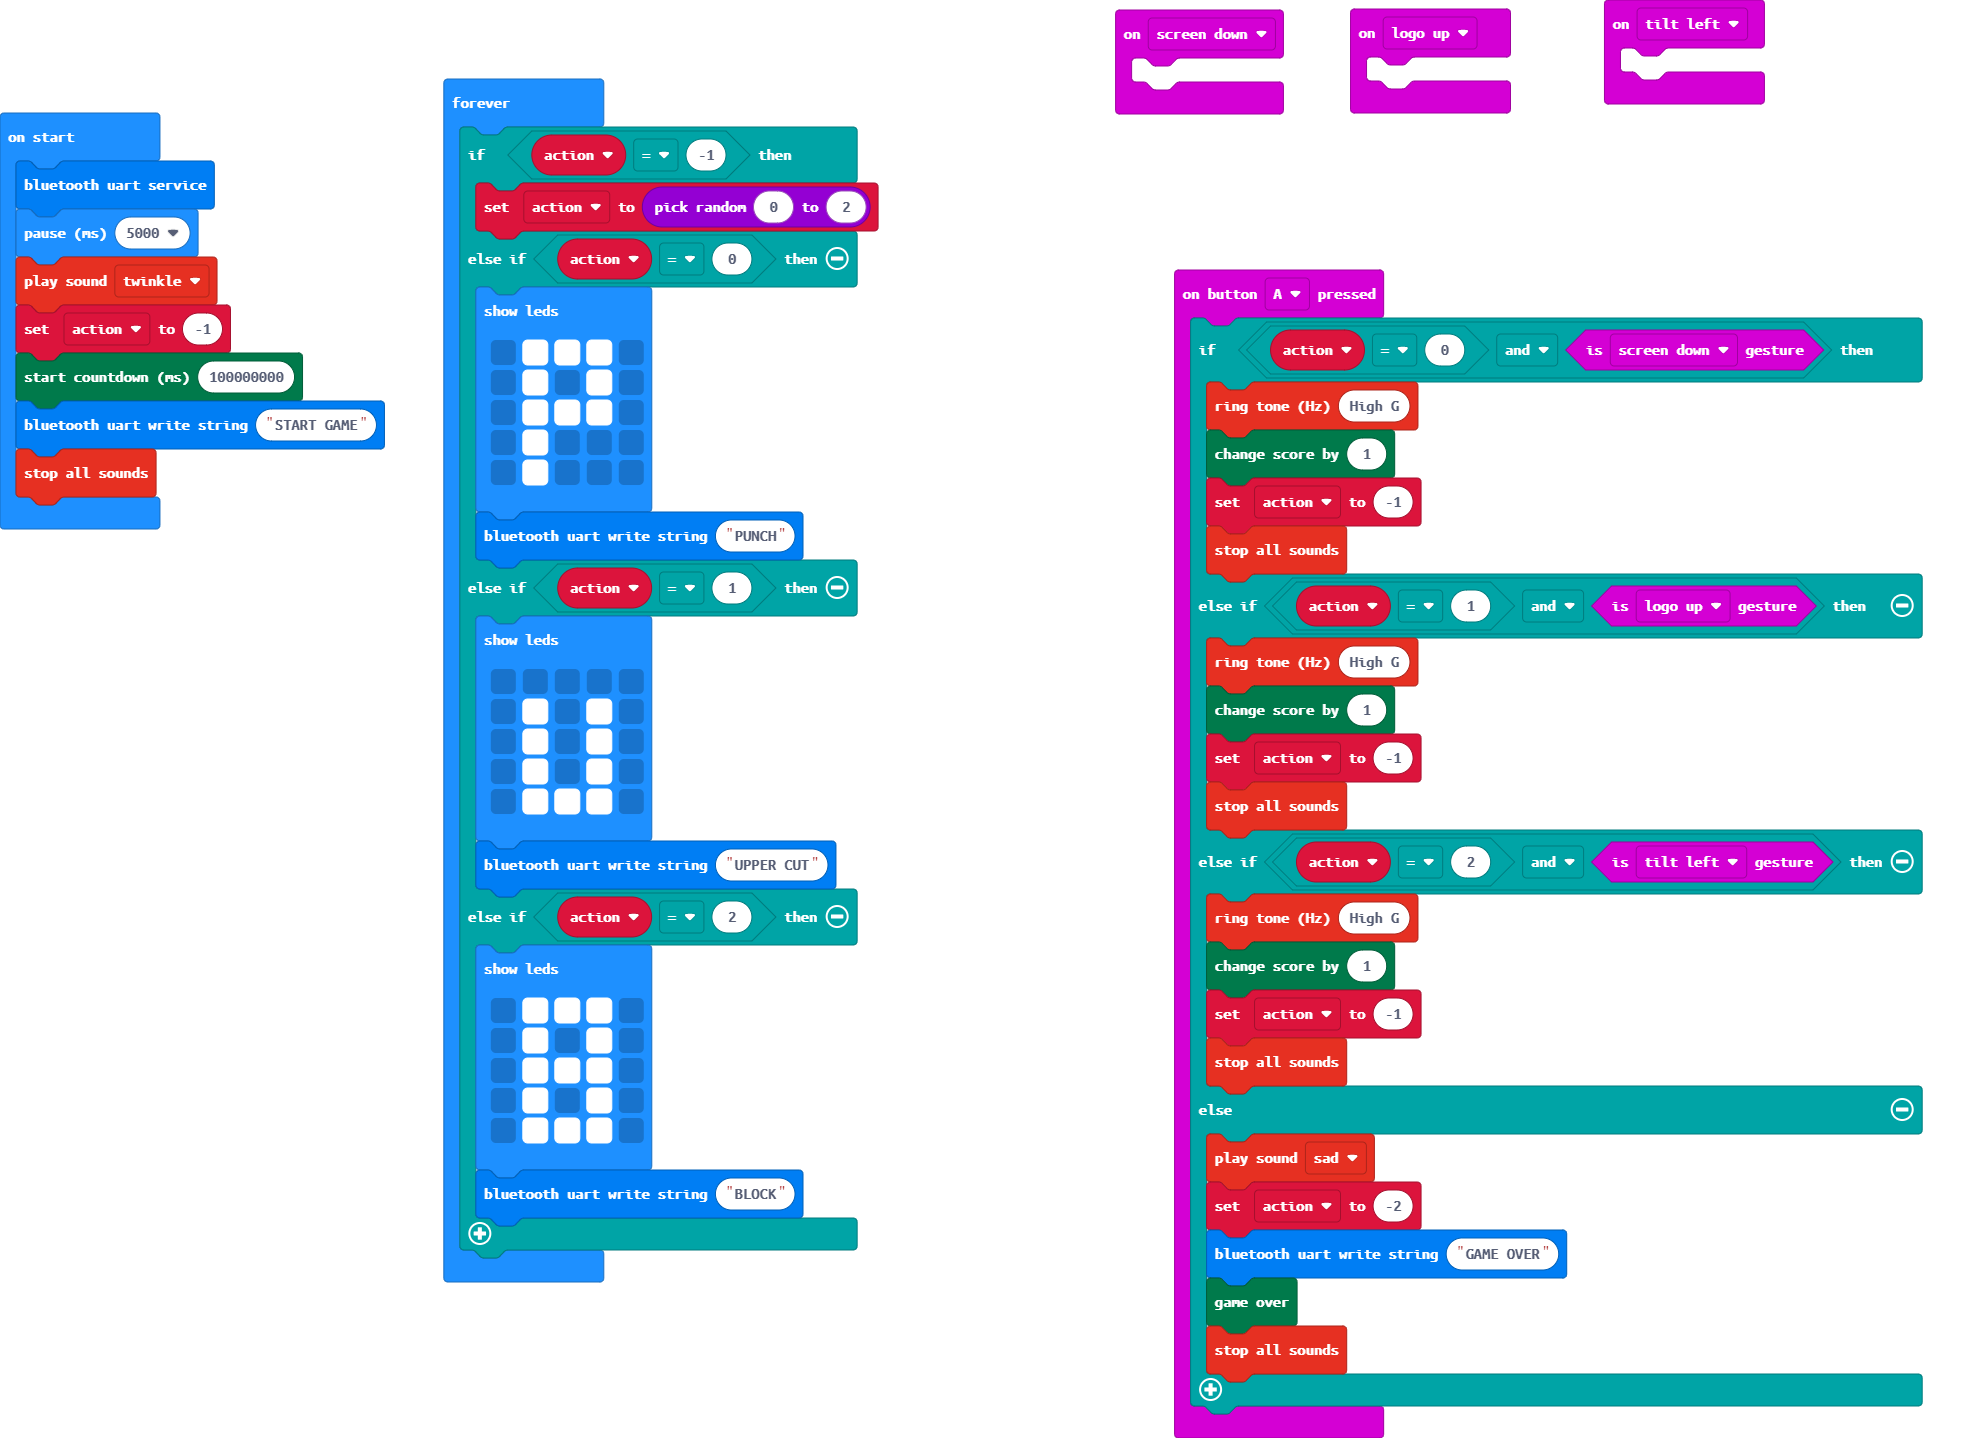
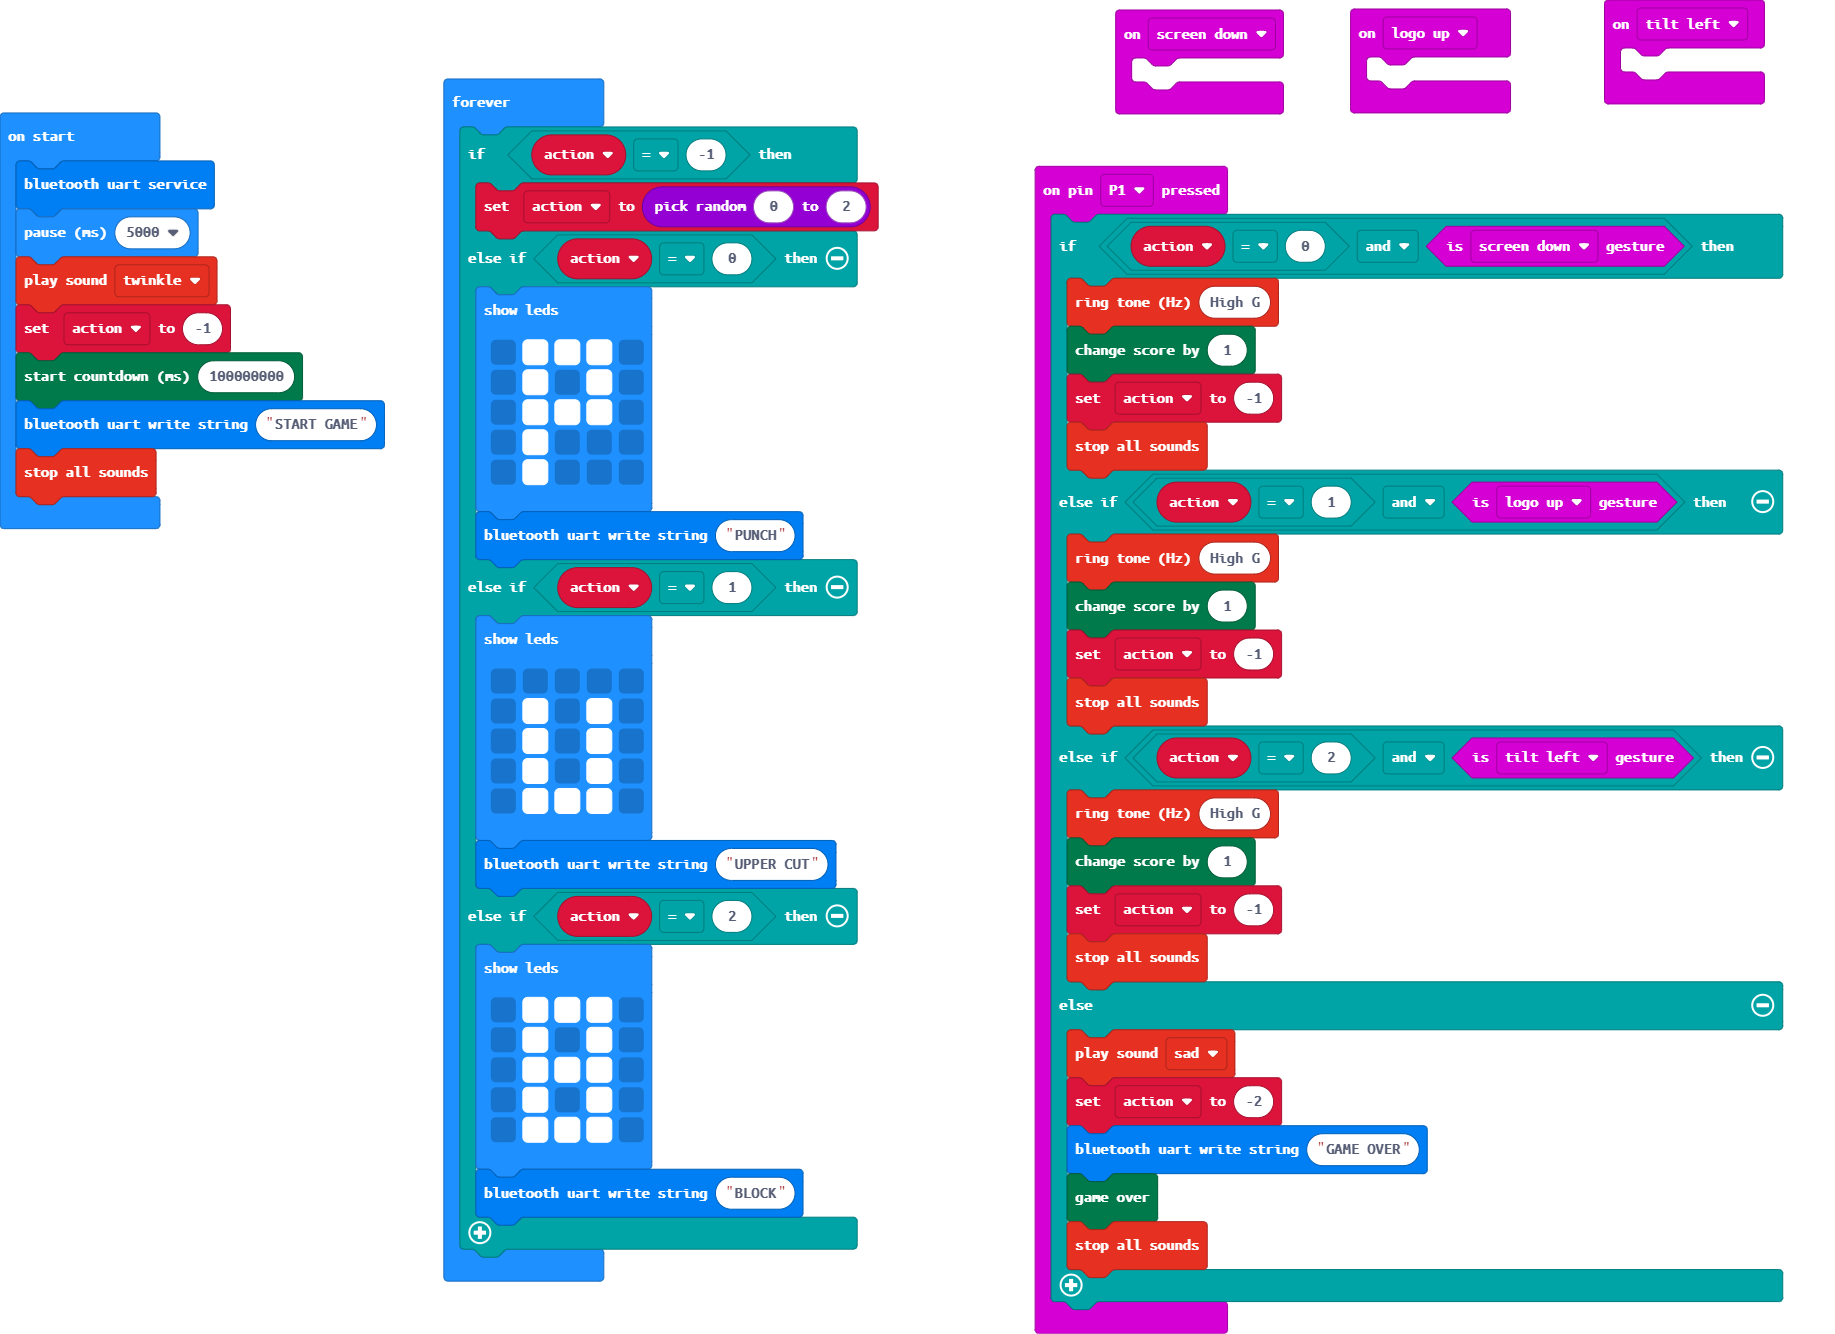
changed switch input

diff --git a/main.ts b/main.ts
@@ -1,4 +1,13 @@
-input.onButtonPressed(Button.A, function () {
+input.onGesture(Gesture.LogoUp, function () {
+	
+})
+input.onGesture(Gesture.TiltLeft, function () {
+	
+})
+input.onGesture(Gesture.ScreenDown, function () {
+	
+})
+input.onPinPressed(TouchPin.P1, function () {
     if (action == 0 && input.isGesture(Gesture.ScreenDown)) {
         music.ringTone(784)
         game.addScore(1)
@@ -21,15 +30,6 @@ input.onButtonPressed(Button.A, function () {
         game.gameOver()
         music.stopAllSounds()
     }
-})
-input.onGesture(Gesture.LogoUp, function () {
-	
-})
-input.onGesture(Gesture.TiltLeft, function () {
-	
-})
-input.onGesture(Gesture.ScreenDown, function () {
-	
 })
 let action = 0
 bluetooth.startUartService()
